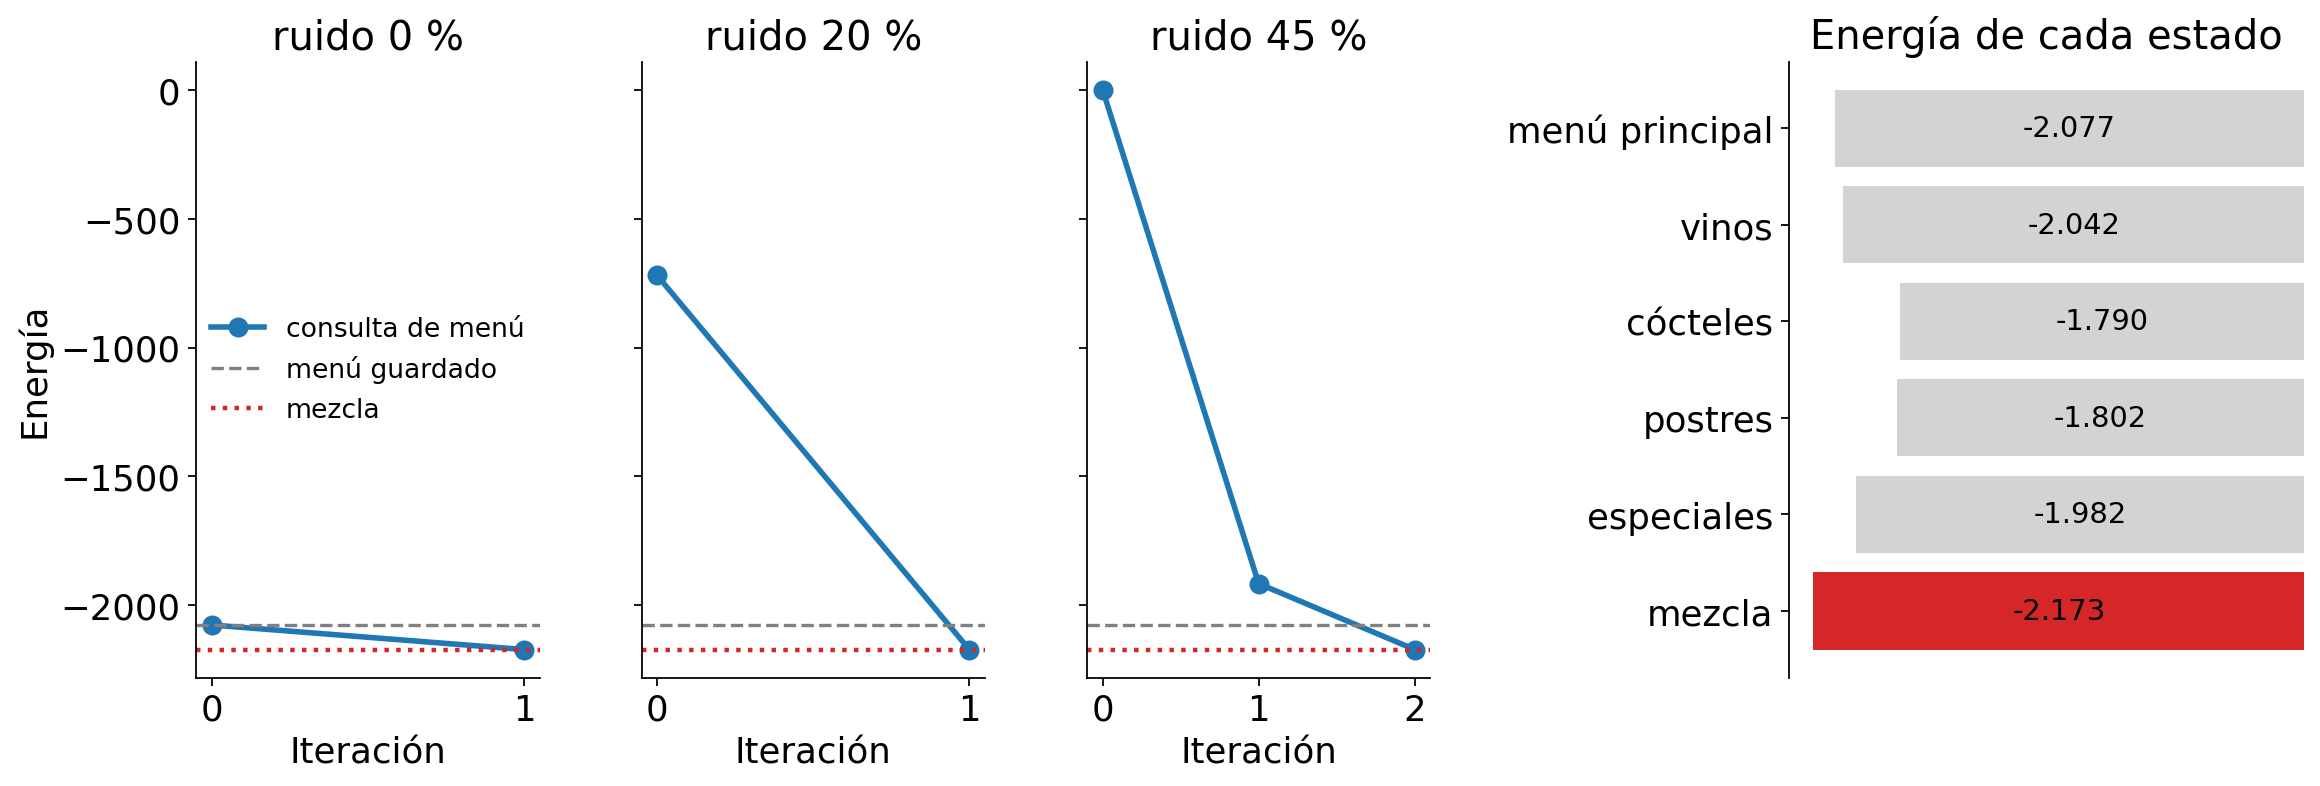
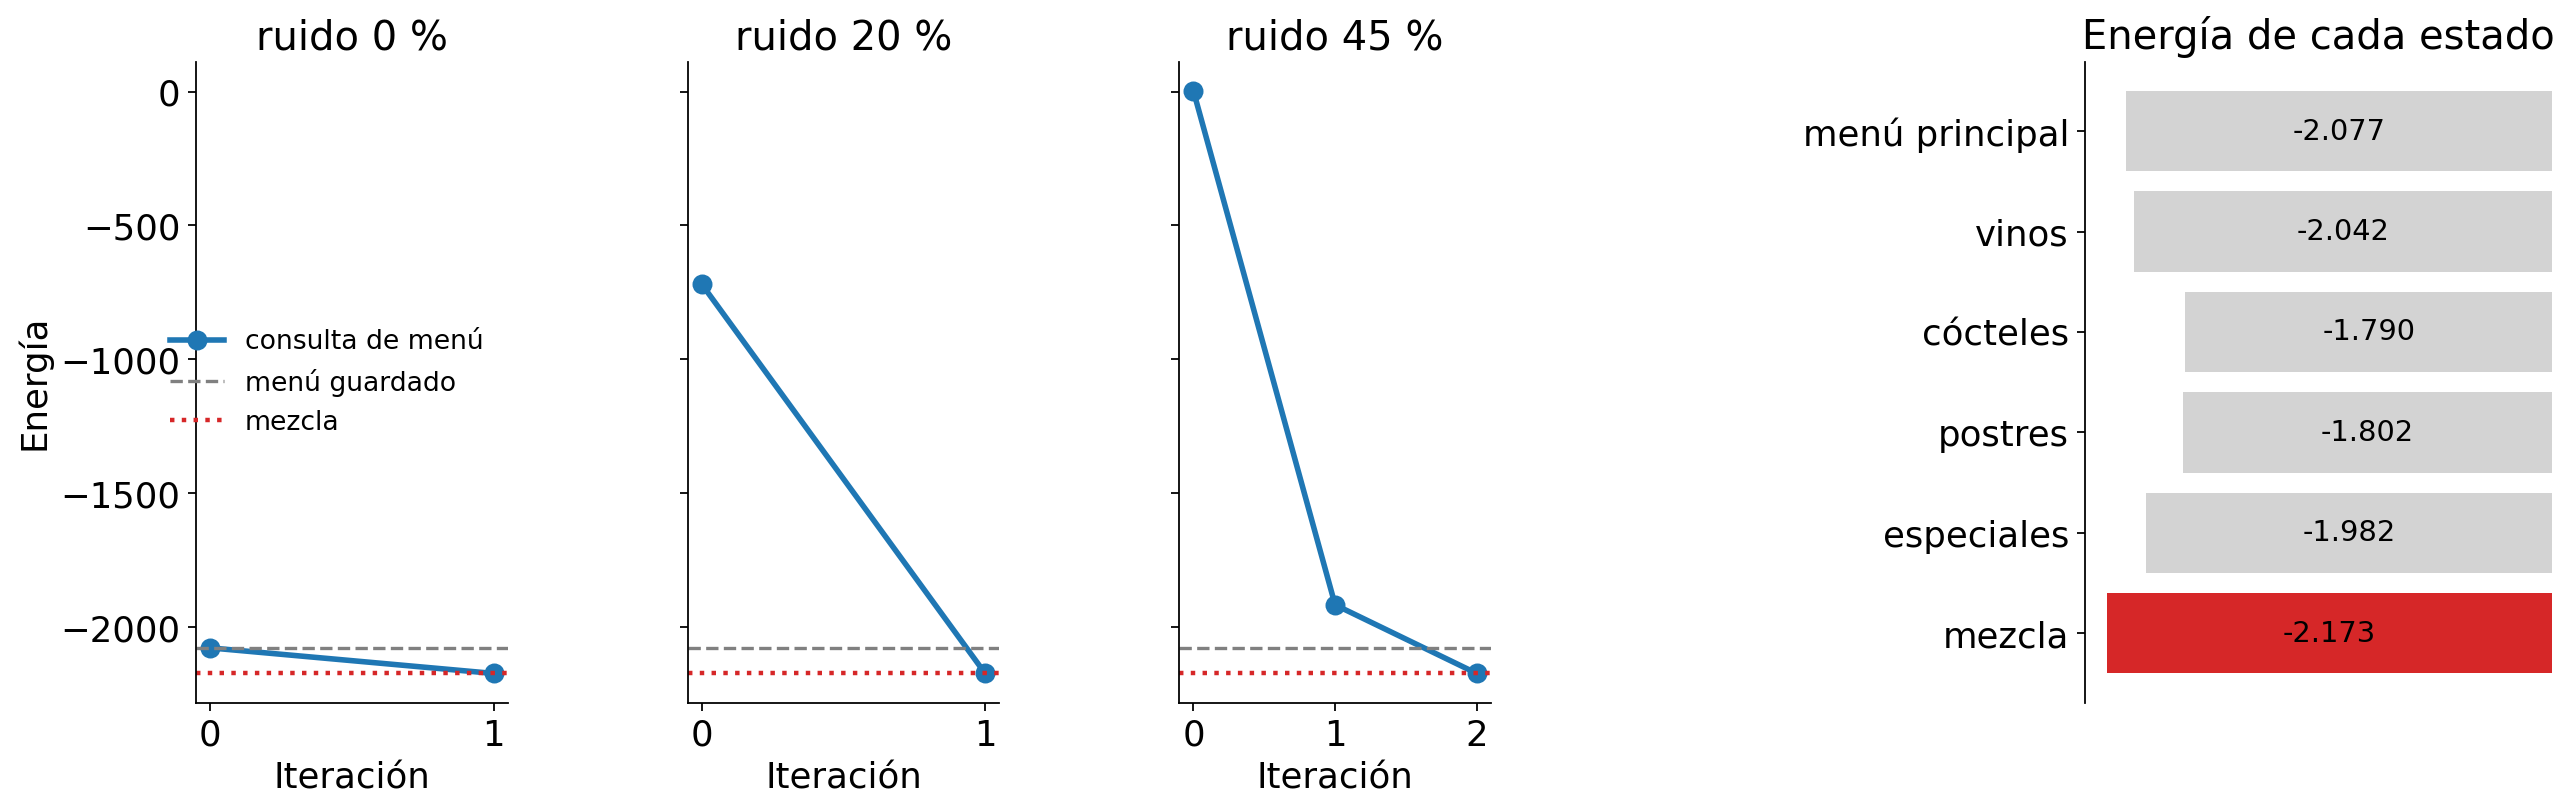
fix(tp4): separa los paneles de energía y deja los QR como estaban

diff --git a/TP4/analysis/presentation_qr_figures.py b/TP4/analysis/presentation_qr_figures.py
@@ -44,8 +44,8 @@ def plot_queries_and_outputs(patterns, path):
     cinco: todas las flechas llegan al mismo lugar."""
     network = Hopfield(patterns)
     queries = make_queries(patterns, [EXAMPLE_NOISE], [EXAMPLE_SEED])
-    fig = plt.figure(figsize=(3.9 * len(patterns), 8.4))
-    grid = fig.add_gridspec(2, len(patterns), height_ratios=(1, 1.25), hspace=.5, wspace=.45)
+    fig = plt.figure(figsize=(3.2 * len(patterns), 8))
+    grid = fig.add_gridspec(2, len(patterns), height_ratios=(1, 1.25), hspace=.45)
     tops, outputs = [], []
     for origin, name in enumerate(QRS):
         query = find_query(queries, origin, EXAMPLE_NOISE, EXAMPLE_SEED).pattern
@@ -265,8 +265,8 @@ def plot_energy_levels(patterns, path, origin=0):
     mixture = np.sign(network.patterns_.sum(axis=0))
     levels = {MENU_NAMES[name]: network.energy(pattern) for name, pattern in zip(QRS, network.patterns_)}
     levels['mezcla'] = network.energy(mixture)
-    fig = plt.figure(figsize=(17, 5))
-    grid = fig.add_gridspec(1, 5, width_ratios=(1, 1, 1, .45, 1.5), wspace=.3)
+    fig = plt.figure(figsize=(19, 5.2))
+    grid = fig.add_gridspec(1, 5, width_ratios=(1, 1, 1, .75, 1.5), wspace=.55)
     axes = [fig.add_subplot(grid[0, 0])]
     axes += [fig.add_subplot(grid[0, i], sharey=axes[0]) for i in (1, 2)]
     for ax, noise in zip(axes, noises):
@@ -276,7 +276,7 @@ def plot_energy_levels(patterns, path, origin=0):
         ax.axhline(levels['mezcla'], color='C3', ls=':', lw=2, label='mezcla')
         ax.set(title=f'ruido {_decimal(noise * 100)} %', xlabel='Iteración', xticks=range(len(energies)))
     axes[0].set_ylabel('Energía')
-    axes[0].legend(loc='center', fontsize=12)
+    axes[0].legend(loc='center right', fontsize=12)
     for ax in axes[1:]:
         ax.tick_params(labelleft=False)
     bars = fig.add_subplot(grid[0, 4])
